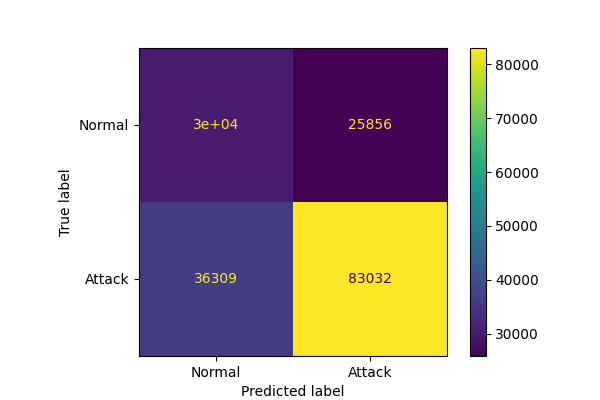
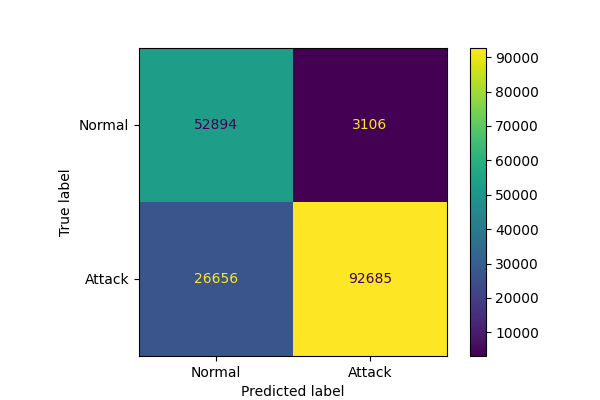
AddedNSL-KDD with both train and test sets

diff --git a/NSL-KDD-sklearn.py b/NSL-KDD-sklearn.py
@@ -25,10 +25,10 @@ warnings.filterwarnings('ignore')
 display_results = False
 generate_statistics_pie = True
 dataset_name = "UNSW-NB15"
-output_dir = "./output/UNSW-NB15"
-train_path = "./input/UNSW_NB15/UNSW_NB15_training-set.csv"
-test_path = "./input/UNSW_NB15/UNSW_NB15_testing-set.csv"
-columns = (['id', 'dur', 'proto', 'service', 'state', 'spkts', 'dpkts', 'sbytes', 'dbytes', 'rate', 'sttl', 'dttl', 'sload', 'dload', 'sloss', 'dloss', 'sinpkt', 'dinpkt', 'sjit', 'djit', 'swin', 'stcpb', 'dtcpb', 'dwin', 'tcprtt', 'synack', 'ackdat', 'smean', 'dmean', 'trans_depth', 'response_body_len', 'ct_srv_src', 'ct_state_ttl', 'ct_dst_ltm', 'ct_src_dport_ltm', 'ct_dst_sport_ltm', 'ct_dst_src_ltm', 'is_ftp_login', 'ct_ftp_cmd', 'ct_flw_http_mthd', 'ct_src_ltm', 'ct_srv_dst', 'is_sm_ips_ports', 'attack_cat', 'label'])
+output_dir = "./output/NSL-KDD-new"
+train_path = "./input/nsl-kdd/KDDTrain+.txt"
+test_path = "./input/nsl-kdd/KDDTest+.txt"
+columns = (['duration','protocol_type','service','flag','src_bytes','dst_bytes','land','wrong_fragment','urgent','hot','num_failed_logins','logged_in','num_compromised','root_shell','su_attempted','num_root','num_file_creations','num_shells','num_access_files','num_outbound_cmds','is_host_login','is_guest_login','count','srv_count','serror_rate','srv_serror_rate','rerror_rate','srv_rerror_rate','same_srv_rate','diff_srv_rate','srv_diff_host_rate','dst_host_count','dst_host_srv_count','dst_host_same_srv_rate','dst_host_diff_srv_rate','dst_host_same_src_port_rate','dst_host_srv_diff_host_rate','dst_host_serror_rate','dst_host_srv_serror_rate','dst_host_rerror_rate','dst_host_srv_rerror_rate','outcome','level'])
 # Models to evaluate
 bool_lr         = True
 bool_knn        = True
@@ -42,39 +42,41 @@ bool_rf         = True
 
 # Logical Regression
 lr_params = {
-    "C": 0.36585696635446396,
-    "max_iter": 868,
-    "solver": "lbfgs"
+    # "C": 0.36585696635446396,
+    # "max_iter": 868,
+    # "solver": "lbfgs"
 }
 
 # K-Nearest Neighbors
 knn_params = {
-    "n_neighbors": 21
+    "n_neighbors": 20
 }
 
 # GaussianNB
 gnb_params = {
-    "var_smoothing": 9.437310900762216e-08
+    # "var_smoothing": 9.437310900762216e-08
 }
 
 # LinearSVC
 lin_svc_params = {
-    "C": 1.0000346600564648e-05,
-    "max_iter": 709
+    # "C": 1.0000346600564648e-05,
+    # "max_iter": 709
 }
 
 # Decision Trees
 dt_params = {
-    "max_depth": 10,
-    "min_samples_split": 13,
-    "min_samples_leaf": 3
+    # "max_depth": 10,
+    # "min_samples_split": 13,
+    # "min_samples_leaf": 3
 }
 
 # XGBoost
 xgb_params = {
-    "n_estimators": 80,
-    "max_depth": 3,
-    "learning_rate": 0.001182925709827524
+    # "n_estimators": 80,
+    # "max_depth": 3,
+    # "learning_rate": 0.001182925709827524
+    "objective":'reg:linear',
+    "n_estimators": 20
 }
 
 # RandomForestClassifier
@@ -124,11 +126,11 @@ data_train.info()
 data_train.describe().style.background_gradient(cmap='Blues').set_properties(**{'font-family': 'Segoe UI'})
 
 printlog(f"[{get_ts()}] Mapping outcomes...")
-data_train.loc[data_train['label'] == "Normal", "label"] = 0
-data_train.loc[data_train['label'] != 0, "label"] = 1
+data_train.loc[data_train['outcome'] == "normal", "outcome"] = 0
+data_train.loc[data_train['outcome'] != 0, "outcome"] = 1
 
-data_test.loc[data_test['label'] == "Normal", "label"] = 0
-data_test.loc[data_test['label'] != 0, "label"] = 1
+data_test.loc[data_test['outcome'] == "normal", "outcome"] = 0
+data_test.loc[data_test['outcome'] != 0, "outcome"] = 1
 
 def pie_plot(df, cols_list, rows, cols):
     fig, axes = plt.subplots(rows, cols)
@@ -141,13 +143,12 @@ def pie_plot(df, cols_list, rows, cols):
     if (display_results): plt.show()
 
 def preprocess(dataframe):
-    dataframe = dataframe.drop(['id'], axis=1)
     df_num = dataframe.drop(cat_cols, axis=1)
     num_cols = df_num.select_dtypes(include=[np.number]).columns
-    obj_cols = ['proto', 'service', 'state']
+    obj_cols = ['protocol_type', 'service', 'flag']
     dataframe = pd.get_dummies(dataframe, columns=obj_cols)
     df_num = dataframe[num_cols]
-    labels = dataframe['label']
+    labels = dataframe['outcome']
     std_scaler = RobustScaler()
     std_scaler_temp = std_scaler.fit_transform(df_num)
     std_df = pd.DataFrame(std_scaler_temp, columns=num_cols)
@@ -155,14 +156,15 @@ def preprocess(dataframe):
     return dataframe
 
 if (generate_statistics_pie):
-    pie_plot(data_train, ['proto', 'service'], 1, 2)
-    pie_plot(data_train, ['attack_cat', 'label'], 1, 2)
+    pie_plot(data_train, ['protocol_type', 'flag'], 1, 2)
+    pie_plot(data_train, ['service', 'outcome'], 1, 2)
 
-cat_cols = ['attack_cat', 'label']
+cat_cols = ['is_host_login','protocol_type','service','flag','land', 'logged_in','is_guest_login', 'level', 'outcome']
 # Process training set
 scaled_train = preprocess(data_train)
-x_train = scaled_train.drop(['label'], axis=1).values
-y_train = scaled_train['label'].values
+print(scaled_train['outcome'].unique())
+x_train = scaled_train.drop(['outcome'], axis=1).values
+y_train = scaled_train['outcome'].values
 y_train = y_train.astype('int')
 
 pca_train = PCA(n_components=20)
@@ -171,8 +173,8 @@ y_train_reduced = y_train
 
 # Process testing set
 scaled_test = preprocess(data_test)
-x_test = scaled_test.drop(['label'], axis=1).values
-y_test = scaled_test['label'].values
+x_test = scaled_test.drop(['outcome'], axis=1).values
+y_test = scaled_test['outcome'].values
 y_test = y_test.astype('int')
 
 pca_test = PCA(n_components=20)
@@ -180,6 +182,7 @@ x_test_reduced = pca_test.fit_transform(x_test)
 y_test_reduced = y_test
 
 printlog(f"[{get_ts()}] Training set original features: {x_train.shape[1]}, reduced features: {x_train_reduced.shape[1]}")
+printlog(f"[{get_ts()}] Training label set: {y_train.shape[0]}, Testing label set: {y_test.shape[0]}")
 printlog(f"[{get_ts()}] Testing set original features: {x_test.shape[1]}, reduced features: {x_test_reduced.shape[1]}")
 
 kernal_evals = dict()
@@ -277,7 +280,7 @@ if (bool_dt):
     printlog(f"[{get_ts()}] Training time: {(end_time - start_time):.4f}")
     evaluate_classification(tdt, "DecisionTreeClassifier", x_train, x_test, y_train, y_test)
 
-    features_names = data_train.drop(['label'], axis=1)
+    features_names = data_train.drop(['outcome'], axis=1)
     f_importances(abs(tdt.feature_importances_), features_names, top=18, title="Decision Tree")
 
     print(f"[{get_ts()}] Generating results...", flush=True)
@@ -294,7 +297,7 @@ if (bool_rf):
     end_time = time.time()
     printlog(f"[{get_ts()}] Training time: {(end_time - start_time):.4f}")
     evaluate_classification(rf, "RandomForestClassifier", x_train, x_test, y_train, y_test)
-    features_names = data_train.drop(['label'], axis=1)
+    features_names = data_train.drop(['outcome'], axis=1)
     f_importances(abs(rf.feature_importances_), features_names, top=18, title="Random Forest")
 
     printlog(f"[{get_ts()}] Preparing Reduced RandomForest")
